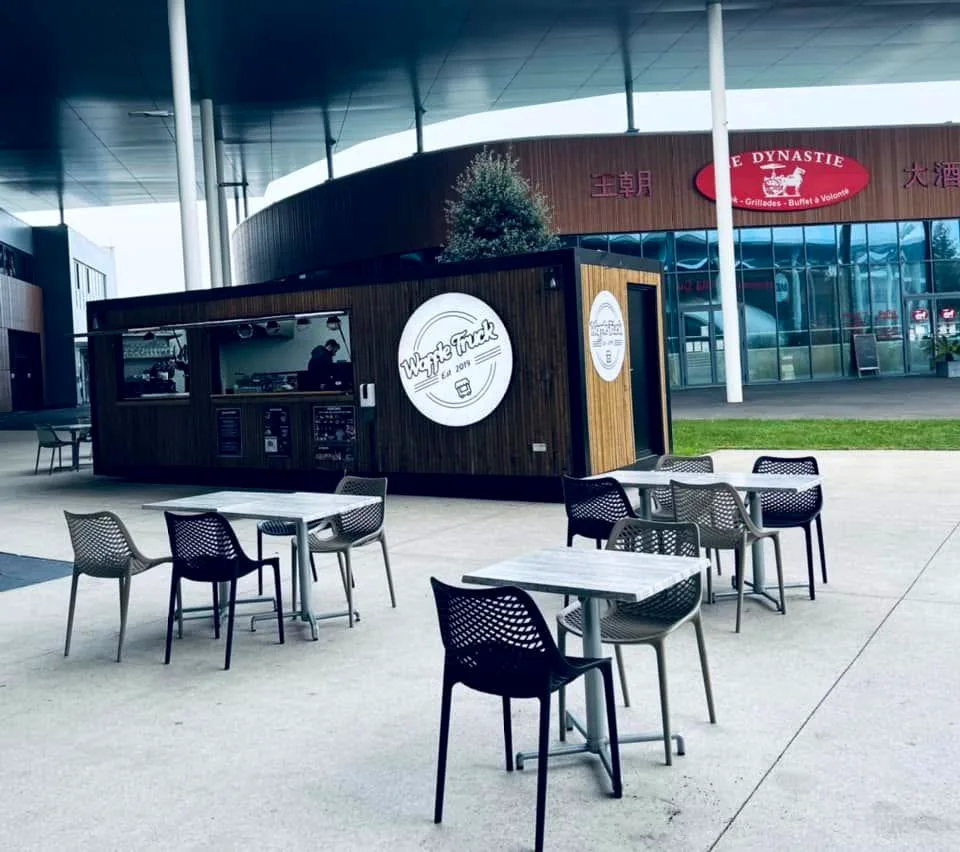
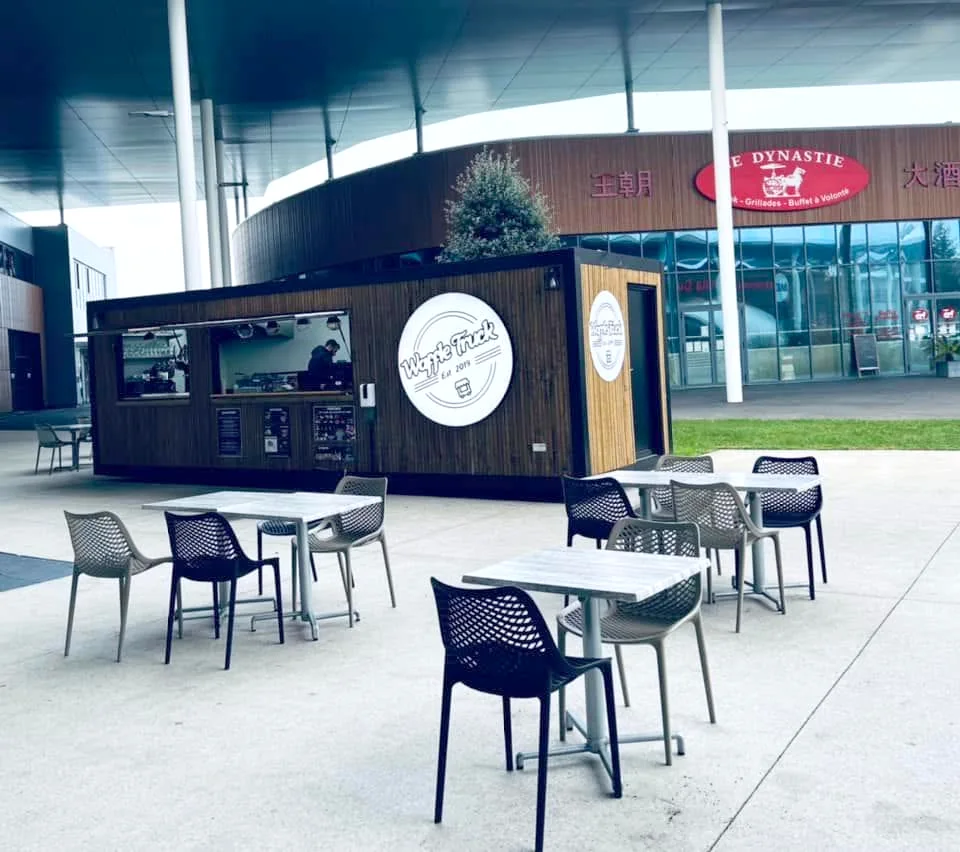
Demo 2: brighter hero, owner's Uber Eats photos
- Hero photos re-made brighter (tools/brighten_hero.py), dark overlay only behind the text, text shadow
- Owner's Uber Eats photos (tools/build_uber_photos.py -> img/photo/ue-*.webp) in the chouchous cards,
  the crousty menu card and a new "Aussi sur Uber Eats" strip (names only, no Uber prices)

diff --git a/02-golden-crunch/main.js b/02-golden-crunch/main.js
@@ -1,6 +1,6 @@
 import { gsap, ScrollTrigger, reduced, isPhone, smoothScroll, split, reveals, counters, magnetic, img } from '../shared/motion.js'
 import { fillInfo } from '../shared/render.js'
-import { favoris } from '../shared/info.js'
+import { favoris, surUber } from '../shared/info.js'
 import { formulas, sandwiches, ovnis, ovnisHiver, bubbleWaffle, desserts, glaces, boissonsChaudes, bubbleTea, boissonsFroides, euro } from '../shared/menu.js'
 
 const $ = (s, r = document) => r.querySelector(s)
@@ -100,7 +100,7 @@ update()
 
 /* ---------- carte panels ---------- */
 const P = []
-P.push(`<article class="panel"><div class="art"><div class="duo">${img('cut/crousty-bowl.webp', 'Bol crousty : poulet croustillant, sauce blanche et sauce barbecue')}${img('cut/poulet-bbq.webp', 'Sandwich poulet BBQ')}</div></div><div>
+P.push(`<article class="panel"><div class="art">${img('photo/ue-crousty-frites.webp', 'Crousty frites : frites maison, poulet crousty, sauce cheddar et sauce blanche', 'art-photo')}</div><div>
   <h3>La pause qui croustille</h3><p class="sub">Bowls &amp; sandwichs</p>
   <ul class="mlist">${sandwiches.bowls.map((b) => row(b.name, b.price, b.note)).join('')}${sandwiches.items.map((s) => row(s.name, 'dès 9,90 €', s.desc)).join('')}${row(sandwiches.kids.name, sandwiches.kids.price, sandwiches.kids.desc)}</ul>
   <h4>Kebab ou Poulet BBQ en formule</h4>${fbox(formulas.sandwich)}<p class="note">${formulas.dessertChoice}</p></div></article>`)
@@ -132,7 +132,7 @@ function deck() {
   box.innerHTML = favoris.map((f, i) => `
     <article class="dcard" data-i="${i}" aria-roledescription="carte" aria-label="${f.rank} : ${f.name}">
       <span class="dc-rank">${f.rank} le plus aimé</span>
-      <div class="dc-art${f.img.length > 1 ? ' duo' : ''}">${f.img.map((s) => img(s, '').replace('loading="lazy"', '')).join('')}</div>
+      <div class="dc-art photo"><img src="/img/${f.photo}" alt="${f.name}" width="960" height="640" decoding="async"></div>
       <h3 class="dc-name">${f.name}</h3>
       <p class="dc-text">${f.text}</p>
       <div class="dc-foot"><span class="dc-price">${f.price}<small>au kiosque</small></span><a class="dc-link" href="#carte">Voir la carte</a></div>
@@ -195,6 +195,7 @@ function deck() {
 deck()
 
 fillInfo()
+$('[data-ue]').innerHTML = surUber.map(([n, src]) => `<figure>${img(src, n)}<figcaption>${n}</figcaption></figure>`).join('')
 // reviews twice for a seamless loop
 $('[data-reviews]').innerHTML += $('[data-reviews]').innerHTML
 $('[data-reviews]').querySelectorAll('.quote').forEach((q, i) => i >= 4 && q.setAttribute('aria-hidden', 'true'))
@@ -235,7 +236,7 @@ if (!reduced) {
     gsap.timeline({ scrollTrigger: { trigger: '.carte', start: 'top top', end: () => '+=' + (track.scrollWidth - innerWidth), scrub: 0.6, pin: '.carte-pin', invalidateOnRefresh: true } })
       .to(track, { x: () => -(track.scrollWidth - innerWidth), ease: 'none' }, 0)
       .to('.carte-progress span', { scaleX: 1, ease: 'none' }, 0)
-    gsap.utils.toArray('.panel .art img').forEach((im) => gsap.fromTo(im, { rotate: -8, scale: 0.85 }, { rotate: 4, scale: 1.05, ease: 'none',
+    gsap.utils.toArray('.panel .art img:not(.art-photo)').forEach((im) => gsap.fromTo(im, { rotate: -8, scale: 0.85 }, { rotate: 4, scale: 1.05, ease: 'none',
       scrollTrigger: { trigger: '.carte', start: 'top top', end: () => '+=' + (track.scrollWidth - innerWidth), scrub: true } }))
   })
   mm.add('(max-width: 900px)', () => {

diff --git a/02-golden-crunch/style.css b/02-golden-crunch/style.css
@@ -58,7 +58,8 @@ em { font-style: italic; color: var(--caramel); }
 .hero-photo { position: absolute; inset: 0; z-index: -1; }
 .hero-photo img { width: 100%; height: 100%; object-fit: cover; object-position: 50% 45%; }
 .hero::after { content: ''; position: absolute; inset: 0; z-index: -1; opacity: var(--shade, 1);
-  background: linear-gradient(180deg, rgba(20, 12, 8, .15) 0%, rgba(20, 12, 8, .1) 40%, rgba(20, 12, 8, .78) 100%), linear-gradient(90deg, rgba(20, 12, 8, .55), transparent 60%); }
+  /* lighter on top (KOS 23 Nov 2026: photo too dark); dark only behind the text at the bottom */
+  background: linear-gradient(180deg, rgba(20, 12, 8, 0) 0%, rgba(20, 12, 8, 0) 42%, rgba(20, 12, 8, .72) 100%), linear-gradient(90deg, rgba(20, 12, 8, .3), transparent 55%); }
 .hero-txt { position: relative; max-width: 640px; }
 .hero .display { color: #fff; }
 .hero .lead { color: rgba(255, 255, 255, .9); margin-bottom: 26px; }
@@ -426,4 +427,26 @@ address a { color: var(--caramel); font-weight: 700; }
   .brand .logo-script { height: 44px; }
   .badge-lieu { width: 96px; top: -34px; right: -4px; }
   .badge-foot { width: 130px; }
+}
+
+/* hero is brighter now: soft shadow keeps the white text readable */
+.hero .display, .hero .lead, .hero-rate { text-shadow: 0 2px 16px rgba(20, 12, 8, .55), 0 1px 3px rgba(20, 12, 8, .45); }
+
+/* ---------- owner's Uber Eats photos (23 Nov 2026) ---------- */
+.dc-art.photo { flex: 1; min-height: 0; margin: 14px 0 4px; }
+.dc-art.photo::before { display: none; }
+.dc-art.photo img { width: 100%; height: 100%; max-width: none; max-height: none; object-fit: cover; border-radius: 20px; filter: none; box-shadow: 0 14px 24px -14px rgba(0, 0, 0, .6); }
+.panel .art .art-photo { position: relative; width: 100%; max-height: none; aspect-ratio: 3 / 2; object-fit: cover; border-radius: 24px; filter: none; box-shadow: 0 24px 40px -24px rgba(0, 0, 0, .7); }
+.ue { max-width: 1100px; margin: 34px auto 0; }
+.ue-h { margin: 0 0 14px; font: 800 26px/1 var(--serif); text-transform: uppercase; }
+.ue-row { display: grid; grid-template-columns: repeat(7, minmax(200px, 1fr)); gap: 14px; overflow-x: auto; scroll-snap-type: x mandatory; padding-bottom: 10px; scrollbar-width: none; }
+.ue-row::-webkit-scrollbar { display: none; }
+.ue-row figure { margin: 0; scroll-snap-align: start; }
+.ue-row img { width: 100%; aspect-ratio: 3 / 2; object-fit: cover; border-radius: 18px; }
+.ue-row figcaption { margin-top: 8px; font: 700 14px/1.25 var(--sans); }
+@media (max-width: 900px) {
+  .ue { margin: 26px -5vw 0; }
+  .ue-h { padding: 0 5vw; font-size: 22px; }
+  .ue-row { display: flex; padding: 0 5vw 10px; scroll-padding-inline: 5vw; }
+  .ue-row figure { flex: 0 0 62vw; }
 }

diff --git a/shared/info.js b/shared/info.js
@@ -31,9 +31,20 @@ export const info = {
 // "Les chouchous": the 3 most loved items on Uber Eats (23 Nov 2026), in that order.
 // Kiosk price only when the kiosk menu has it (menu.js); never the Uber price.
 export const favoris = [
-  { rank: 'N°1', name: 'Crousty Frites', text: 'Poulet crousty bien croustillant, sauce blanche et filet de sauce barbecue.', price: '9,90 €', img: ['cut/crousty-bowl.webp'] },
-  { rank: 'N°2', name: 'Bubble Banane Nutella', text: 'La bubble waffle croustillante, Nutella et banane fraîche.', price: '5,70 €', img: ['cut/bubble-banane-cup.webp'] }, // 5,70 = base 3,50 + coulis Nutella 1 + fruits 1,20
-  { rank: 'N°3', name: 'Menu Kebab', text: 'Le kebab avec salade, tomates, oignons et sauce au choix. Frites maison et boisson.', price: '12,90 €', img: ['cut/kebab.webp', 'cut/frites-box.webp'] },
+  { rank: 'N°1', name: 'Crousty Frites', text: 'Frites maison, poulet crousty, sauce cheddar et sauce blanche, oignons frits.', price: '9,90 €', photo: 'photo/ue-crousty-frites.webp' },
+  { rank: 'N°2', name: 'Bubble Banane Nutella', text: 'La bubble waffle croustillante, Nutella et banane fraîche.', price: '5,70 €', photo: 'photo/ue-bubble-banane-nutella.webp' }, // 5,70 = base 3,50 + coulis Nutella 1 + fruits 1,20
+  { rank: 'N°3', name: 'Menu Kebab', text: 'Le kebab avec salade, tomates, oignons et sauce au choix. Frites maison et boisson.', price: '12,90 €', photo: 'photo/ue-menu-kebab.webp' },
+]
+
+// Owner's Uber Eats photos shown in "Livré chez toi" (23 Nov 2026). Names as on Uber Eats, no prices.
+export const surUber = [
+  ['Duo Kebab', 'photo/ue-duo-kebab.webp'],
+  ['2 Crousty Riz', 'photo/ue-2-crousty-riz.webp'],
+  ['Crousty Riz', 'photo/ue-crousty-riz.webp'],
+  ['Menu Crousty Barbecue', 'photo/ue-menu-crousty-barbecue.webp'],
+  ['Tenders', 'photo/ue-tenders.webp'],
+  ['Nuggets', 'photo/ue-nuggets.webp'],
+  ['Bubble Bowl Nutella Bueno Banane', 'photo/ue-bubble-bowl-nutella-bueno-banane.webp'],
 ]
 
 // Short paraphrases of public Google reviews (not verbatim quotes).

diff --git a/02-golden-crunch/index.html b/02-golden-crunch/index.html
@@ -191,6 +191,11 @@
           <p class="small">Les prix en livraison sont ceux de l’appli.</p>
         </div>
       </div>
+      <!-- owner's Uber Eats photos (23 Nov 2026), names only -->
+      <div class="ue">
+        <p class="ue-h">Aussi sur Uber Eats</p>
+        <div class="ue-row" data-ue></div>
+      </div>
     </section>
 
     <!-- INFOS -->

diff --git a/tools/brighten_hero.py b/tools/brighten_hero.py
@@ -1,0 +1,28 @@
+"""Hero photos a bit brighter (KOS, 23 Nov 2026: "the picture is so dark").
+
+Run from sites/waffle Truck:  py demos/tools/brighten_hero.py
+Re-makes photo/kiosque-grand-mail.webp (phone hero) and photo/terrasse.webp (desktop hero) from the
+originals, same size as build_assets.py, with lifted shadows. Run it AFTER build_assets.py if you re-run that one.
+"""
+import numpy as np
+from PIL import Image, ImageEnhance
+
+R = "real local footage/PairDrop_files_20261115_0455/"
+OUT = "demos/public/img/photo/"
+
+
+def bright(src, name, width):
+    im = Image.open(R + src).convert("RGB")
+    a = np.asarray(im).astype(float) / 255
+    a = a ** 0.78                                  # lift shadows and mid-tones, keep whites
+    a = np.clip(a * 1.04, 0, 1)
+    im = Image.fromarray((a * 255).astype(np.uint8))
+    im = ImageEnhance.Contrast(im).enhance(1.04)
+    im = ImageEnhance.Color(im).enhance(1.12)
+    im.thumbnail((width, width * 2), Image.LANCZOS)
+    im.save(OUT + name + ".webp", quality=84, method=6)
+    print(name, im.size)
+
+
+bright("IMG_1447.jpeg", "terrasse", 1440)
+bright("IMG_1448.jpeg", "kiosque-grand-mail", 960)

diff --git a/tools/build_uber_photos.py b/tools/build_uber_photos.py
@@ -1,0 +1,20 @@
+"""Owner's Uber Eats photos (23 Nov 2026, warm studio backdrop) -> web photos.
+
+Run from sites/waffle Truck:  py demos/tools/build_uber_photos.py
+Source: images/2026-11-23-uber-eats/*.jpg (1536x1024). Output: demos/public/img/photo/ue-<name>.webp (960x640).
+Drinks are skipped (not used on the site).
+"""
+from pathlib import Path
+from PIL import Image
+
+SRC = Path("images/2026-11-23-uber-eats")
+OUT = Path("demos/public/img/photo")
+SKIP = {"Coca-Cola", "Coca-Cola-Cherry", "Coca-Cola-Zero", "Eau-Cristaline", "Fuze-Tea"}
+for f in sorted(SRC.glob("*.jpg")):
+    if f.stem in SKIP:
+        continue
+    im = Image.open(f).convert("RGB")
+    im.thumbnail((960, 960), Image.LANCZOS)
+    name = "ue-" + f.stem.lower()
+    im.save(OUT / f"{name}.webp", quality=82, method=6)
+    print(name, im.size)
